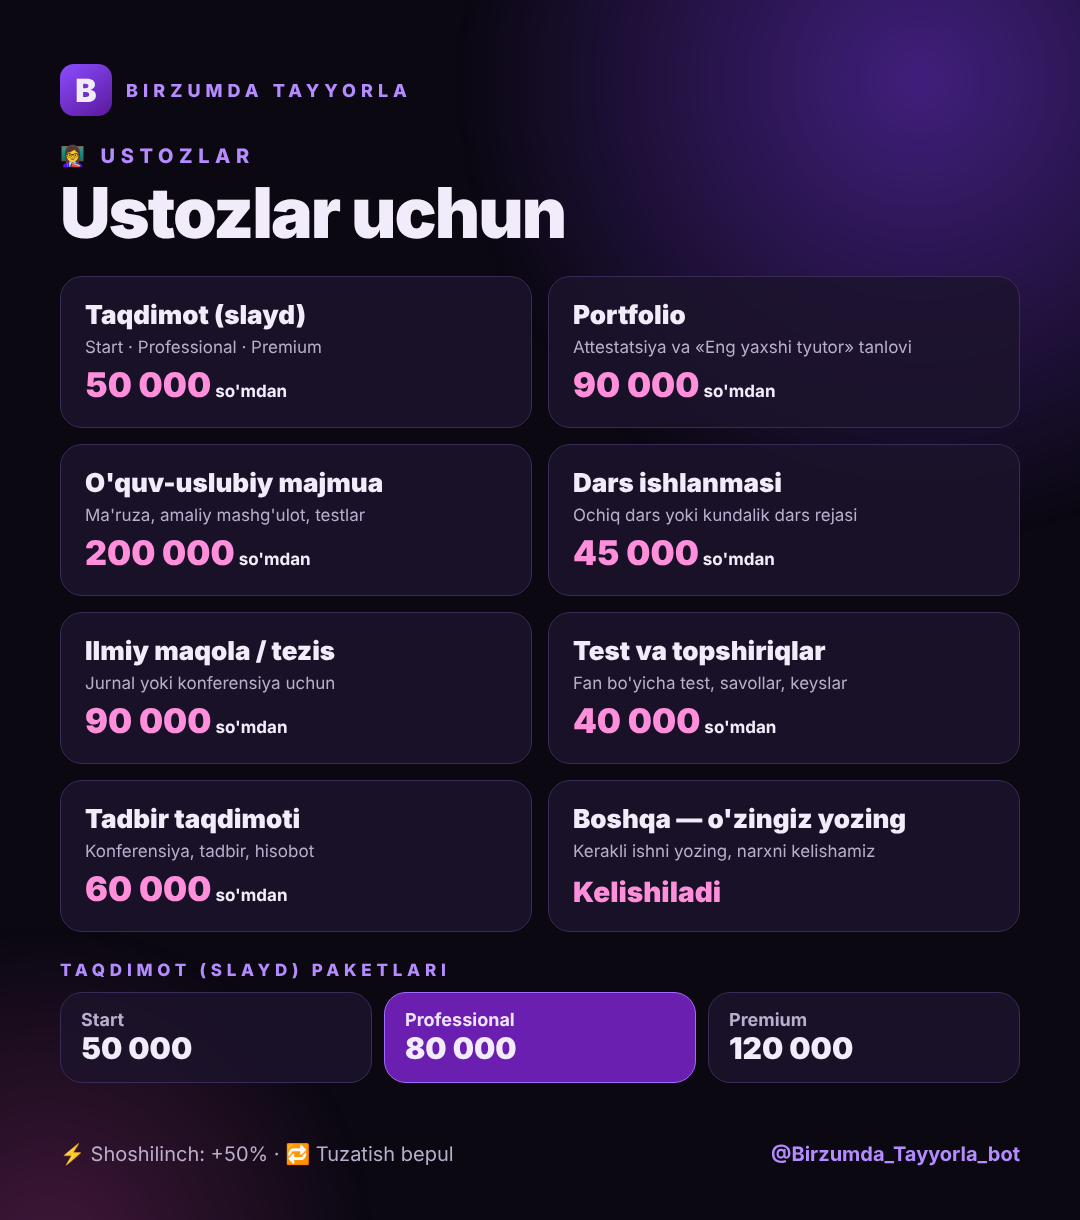
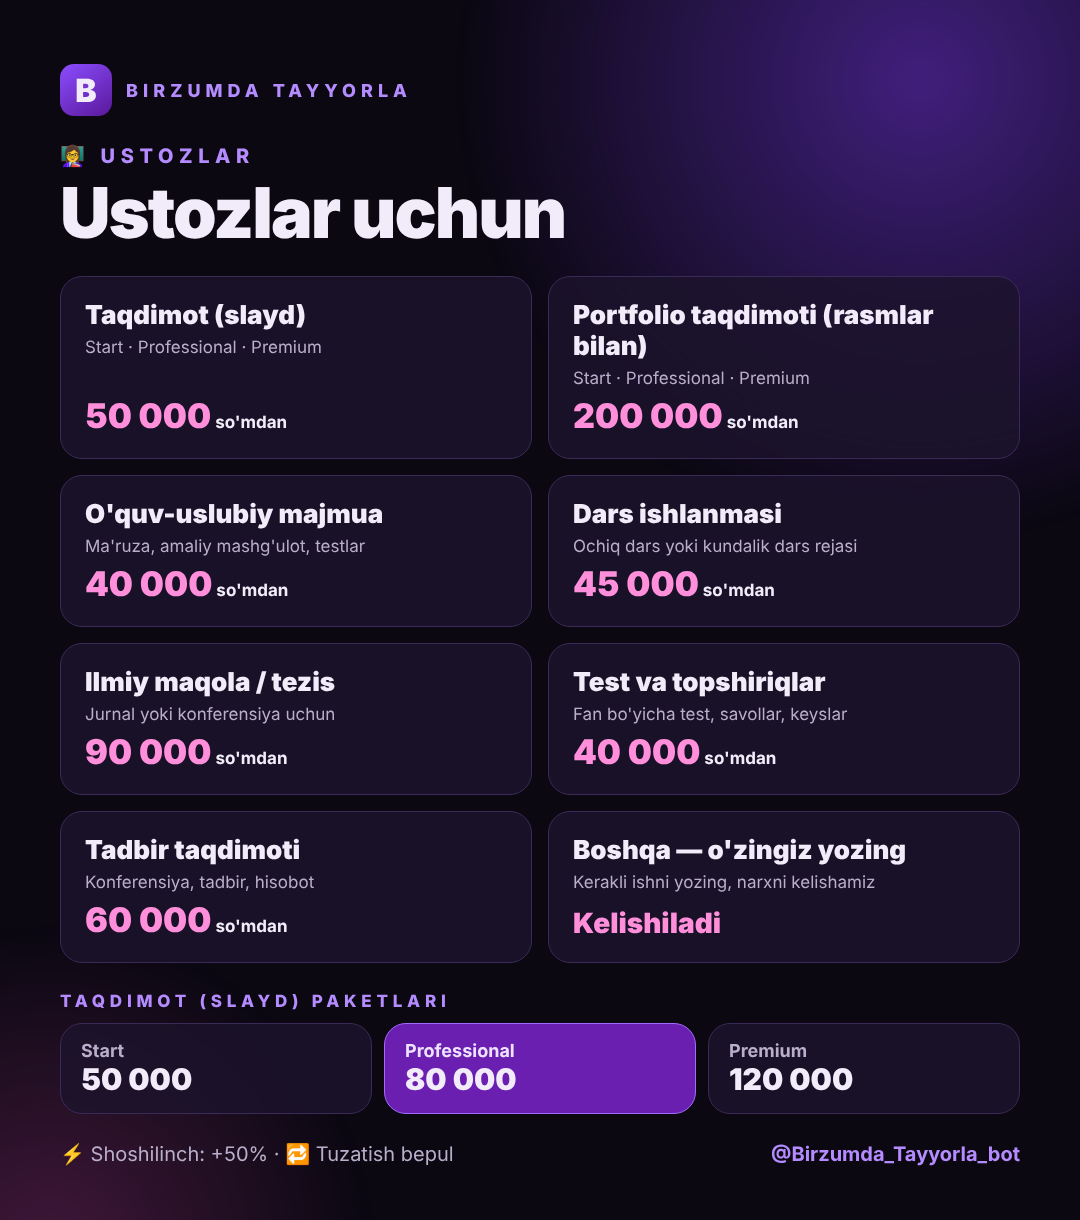
Portfolio 3 tarif, O'UM 40 000, Mini ilova bosh sahifa tuzatildi
Claude-Session: https://claude.ai/code/session_0188Br2AHP1GhbQw3ASn9YfP

Changed region(s): [[0.0611, 0.2803, 0.7944, 0.9344], [0.5194, 0.2492, 0.8556, 0.7787]]

diff --git a/index.html b/index.html
@@ -39,7 +39,7 @@ p.m{color:var(--m);font-size:15px;line-height:1.45}
 .hero{position:relative;overflow:hidden;padding:20px;margin-bottom:14px}
 .hero .ring{position:absolute;right:-50px;top:-50px;width:170px;height:170px;border-radius:50%;border:18px dashed rgba(160,107,255,.35);animation:spin 18s linear infinite}
 @keyframes spin{to{transform:rotate(360deg)}}
-.sticker{position:absolute;right:16px;bottom:16px;width:64px;height:64px;animation:wob 2.6s ease-in-out infinite}
+.sticker{position:absolute;right:12px;top:12px;width:56px;height:56px;animation:wob 2.6s ease-in-out infinite}
 @keyframes wob{0%,100%{transform:rotate(-8deg) scale(1)}50%{transform:rotate(8deg) scale(1.08)}}
 .chips{display:flex;flex-wrap:wrap;gap:8px;margin-top:14px}
 .chip{padding:8px 12px;border-radius:999px;background:#1C1430;border:1px solid var(--line);font-size:13px;font-weight:600}
@@ -121,7 +121,10 @@ button.chip{cursor:pointer;color:var(--t);transition:transform .15s}button.chip:
 @keyframes rip{to{transform:scale(1);opacity:0}}
 .opt.on{animation:pop .35s cubic-bezier(.2,1.6,.4,1)}
 @keyframes pop{0%{transform:scale(.96)}60%{transform:scale(1.03)}100%{transform:scale(1)}}
-.tile{animation:float3 5s ease-in-out infinite}.tile:nth-child(2n){animation-delay:-2.5s}
+/* .stag ichidagilar paydo bo'lish animatsiyasini yo'qotmasin */
+.stag>.tile{animation:up .5s cubic-bezier(.2,.8,.2,1) forwards,float3 5s ease-in-out infinite}
+.stag>.btn{animation:up .5s cubic-bezier(.2,.8,.2,1) forwards,breathe 3s ease-in-out infinite}
+.stag>.chip,.stag>.total{animation:up .5s cubic-bezier(.2,.8,.2,1) forwards}
 @keyframes float3{50%{transform:translateY(-4px)}}
 .tile .ico{transition:transform .3s}.tile:active .ico{transform:rotate(-12deg) scale(1.15)}
 .ico svg{animation:icoPulse 2.8s ease-in-out infinite}

diff --git a/texts.py b/texts.py
@@ -80,7 +80,10 @@ CAT_TR = {
                 "start": ("Start", "12–15 слайдов, для открытого урока"),
                 "pro": ("Professional", "15–20 слайдов, анимация, диаграммы, 🐢 Черепаха-учитель"),
                 "premium": ("Premium", "20–25 слайдов, Morph, 🐢 Черепаха-учитель, текст речи, видео")}},
-            "portfolio": {"name": "Портфолио", "desc": "Аттестация и конкурс «Лучший тьютор»"},
+            "portfolio": {"name": "Портфолио-презентация (с фото)", "packages": {
+                "start": ("Start", "15–20 слайдов, фото, достижения, сертификаты"),
+                "pro": ("Professional", "20–25 слайдов, анимация, фотоколлажи, 🐢 Черепаха-учитель"),
+                "premium": ("Premium", "25–30 слайдов, Morph, видео и музыка, текст речи, 🐢 Черепаха-учитель")}},
             "oum": {"name": "Учебно-методический комплекс", "desc": "Лекции, практические занятия, тесты"},
             "ishlanma": {"name": "Разработка урока", "desc": "План открытого или обычного урока"},
             "maqola": {"name": "Научная статья / тезисы", "desc": "Для журнала или конференции"},
@@ -108,7 +111,10 @@ CAT_TR = {
                 "start": ("Start", "12–15 slides, for an open lesson"),
                 "pro": ("Professional", "15–20 slides, animation, charts, 🐢 Turtle teacher"),
                 "premium": ("Premium", "20–25 slides, Morph, 🐢 Turtle teacher, speech text, video")}},
-            "portfolio": {"name": "Portfolio", "desc": "Attestation and «Best tutor» contest"},
+            "portfolio": {"name": "Portfolio presentation (with photos)", "packages": {
+                "start": ("Start", "15–20 slides, photos, achievements, certificates"),
+                "pro": ("Professional", "20–25 slides, animation, photo collages, 🐢 Turtle teacher"),
+                "premium": ("Premium", "25–30 slides, Morph, video and music, speech text, 🐢 Turtle teacher")}},
             "oum": {"name": "Teaching materials set (O'UM)", "desc": "Lectures, practical classes, tests"},
             "ishlanma": {"name": "Lesson plan", "desc": "Open lesson or everyday lesson plan"},
             "maqola": {"name": "Research article / abstract", "desc": "For a journal or conference"},

diff --git a/bot.py b/bot.py
@@ -138,8 +138,11 @@ CATALOG = {
                 "pro": ("Professional", 80000, "15–20 slayd, animatsiya, diagrammalar, 🐢 Toshbaqa o'qituvchi"),
                 "premium": ("Premium", 120000, "20–25 slayd, Morph, 🐢 Toshbaqa o'qituvchi, nutq matni, video"),
             }},
-            "portfolio": {"name": "Portfolio", "price": 90000, "desc": "Attestatsiya va «Eng yaxshi tyutor» tanlovi"},
-            "oum": {"name": "O'quv-uslubiy majmua", "price": 200000, "desc": "Ma'ruza, amaliy mashg'ulot, testlar"},
+            "portfolio": {"name": "Portfolio taqdimoti (rasmlar bilan)", "packages": {
+                "start": ("Start", 200000, "15–20 slayd, rasmlar, yutuqlar, sertifikatlar"),
+                "pro": ("Professional", 250000, "20–25 slayd, animatsiya, fotokollajlar, 🐢 Toshbaqa o'qituvchi"),
+                "premium": ("Premium", 300000, "25–30 slayd, Morph, video va musiqa, nutq matni, 🐢 Toshbaqa o'qituvchi")}},
+            "oum": {"name": "O'quv-uslubiy majmua", "price": 40000, "desc": "Ma'ruza, amaliy mashg'ulot, testlar"},
             "ishlanma": {"name": "Dars ishlanmasi", "price": 45000, "desc": "Ochiq dars yoki kundalik dars rejasi"},
             "maqola": {"name": "Ilmiy maqola / tezis", "price": 90000, "desc": "Jurnal yoki konferensiya uchun"},
             "test": {"name": "Test va topshiriqlar", "price": 40000, "desc": "Fan bo'yicha test, savollar, keyslar"},
@@ -564,7 +567,7 @@ TURTLE_PKGS = {"pro", "premium"}  # 🐢 ustozlar uchun Professional va Premium'
 
 def turtle_kind(aud, svc, pkg, chosen=False):
     """'in' — paketga kiradi (ustozlar Pro/Premium), 'add' — talaba qo'shimcha tanlagan, None — yo'q."""
-    if aud == "t" and svc == "dars" and pkg in TURTLE_PKGS:
+    if aud == "t" and svc in ("dars", "portfolio") and pkg in TURTLE_PKGS:
         return "in"
     if aud == "s" and svc == "taqdimot" and chosen:
         return "add"
